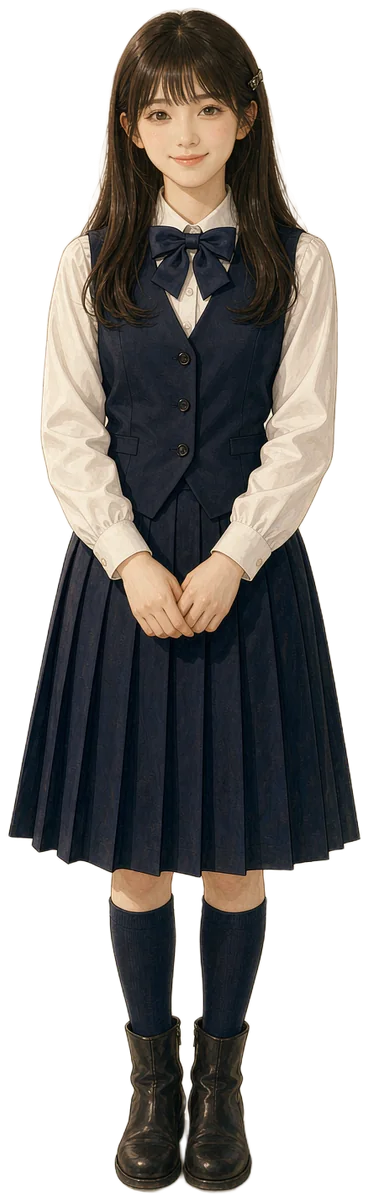
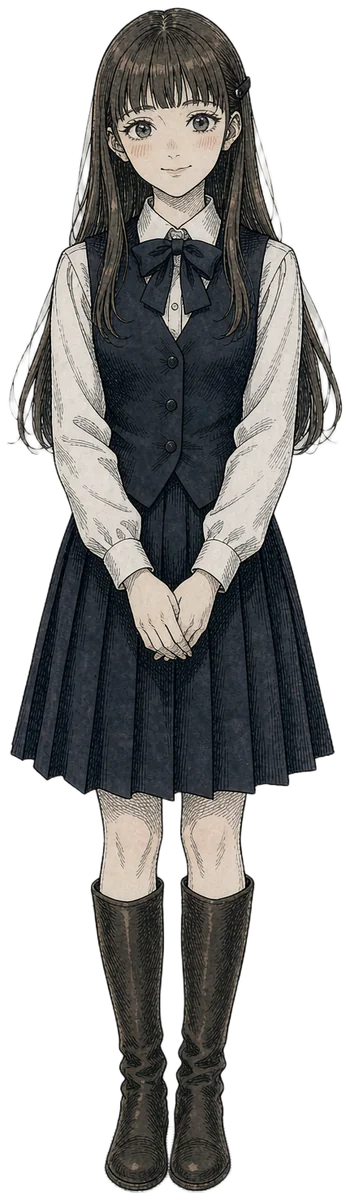
馆藏原件二版：接待员改插画风、内厅加深并加入阅读的人

diff --git a/index.html b/index.html
@@ -1845,14 +1845,16 @@ img{display:block}
   --ar-stage-h:max(100vh, calc(100vw / 1.5));
   --ar-crop:max(0px, calc((var(--ar-stage-h) - 100vh) / 2));
   --ar-foot:calc(var(--ar-crop) + 4vh);                       /* 她的脚离舞台底边 */
-  --ar-staff-h:min(calc(var(--ar-stage-h) * .64), 68vh)}       /* 身高：舞台 64%，扁窗口封顶 68vh */
+  --ar-staff-h:min(calc(var(--ar-stage-h) * .545), 68vh)}      /* 身高：舞台 54.5%，扁窗口封顶 68vh
+     ⚠ 这个系数是**合成预演比出来的**（0.637 与 0.545 各出一版真画幅对比）：
+        大一点就像“贴在镜头前的巨型立牌”，小一点纵深才读得出来 —— 她是"站在馆里的人"。 */
 
 /* ── ① 内厅（门背后那一层）＋ 接待员 ───────────────────────────────────── */
 .arc-scene{position:absolute;inset:0;z-index:0;transform:scale(1);
   transition:transform 2.6s cubic-bezier(.3,.02,.26,1)}
 .arcwall.push .arc-scene{transform:scale(1.06)}
 .arc-hall{position:absolute;inset:0;
-  background:url("assets/archive-hall.webp?v=20260922a") center/100% 100% no-repeat}
+  background:url("assets/archive-hall.webp?v=20260922b") center/100% 100% no-repeat}
 .arc-hallv{position:absolute;inset:0;
   background:radial-gradient(ellipse 60% 44% at 50% 44%,rgba(255,252,244,.26),rgba(255,250,240,0) 72%),
     linear-gradient(180deg,rgba(58,42,24,.20),rgba(58,42,24,0) 24%,
@@ -1865,7 +1867,7 @@ img{display:block}
 .arc-staff{position:absolute;left:50%;bottom:var(--ar-foot);z-index:2;
   height:var(--ar-staff-h);aspect-ratio:368/1200;
   transform:translateX(-50%);opacity:0;pointer-events:none;
-  background:url("assets/archive-staff.webp?v=20260922a") center bottom/100% 100% no-repeat;
+  background:url("assets/archive-staff.webp?v=20260922b") center bottom/100% 100% no-repeat;
   transition:opacity .9s ease 1.15s}
 .arcwall.push .arc-sh,.arcwall.push .arc-staff{opacity:1}
 
@@ -4560,6 +4562,6 @@ footer .ft-legal b{color:var(--muted);font-weight:500}
 <script src="study-plan.js?v=20260922c"></script>
 <script src="docs.js?v=20260921c"></script>
 <script src="app.js?v=20260920f"></script>
-<script src="knowledge.js?v=20260922n"></script>
+<script src="knowledge.js?v=20260922o"></script>
 </body>
 </html>

diff --git a/knowledge.js b/knowledge.js
@@ -2268,7 +2268,7 @@ function warmGateImages() {
        门是进门第一眼（必须已经在缓存里），内厅在 760ms 后就要露出来；
        接待员（65 KB）要 2.4s 之后才淡入，留给她自己慢慢下。 */
     "assets/archive-door.webp?v=20260922a",
-    "assets/archive-hall.webp?v=20260922a"
+    "assets/archive-hall.webp?v=20260922b"
   ];
   list.forEach(function (u) {
     var im = new Image();
